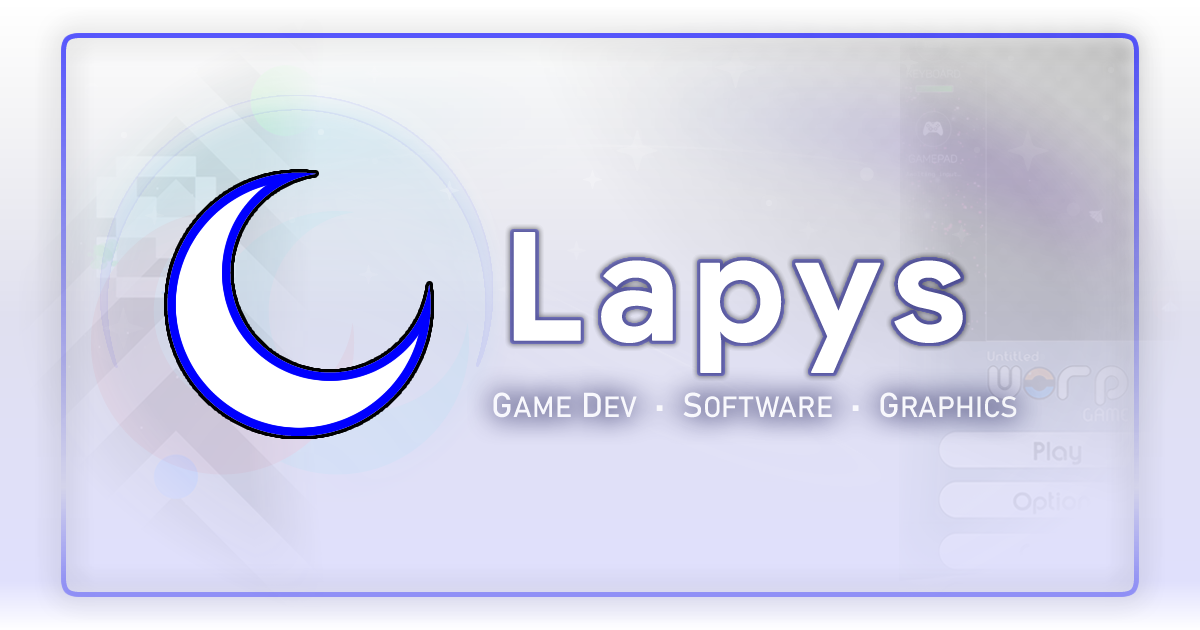
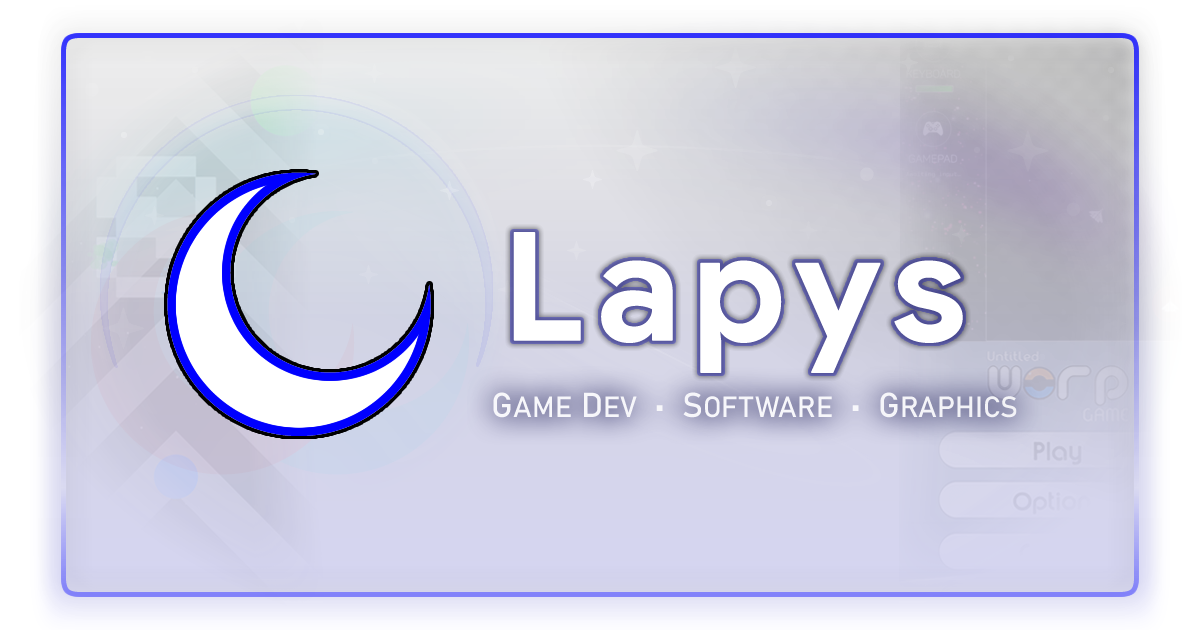
…

diff --git a/index.html b/index.html
@@ -8,23 +8,24 @@
     <meta content="RevealTrans(Duration=0.0,Transition=0)" http-equiv="Page-Exit"/>
     <meta content="chrome=1"                               http-equiv="X-UA-Compatible"/>
 
-    <meta content="United Kingdom"                           property="og:country-name"/>
-    <meta content="Lapys’ portfolio"                         property="og:description"/>
-    <meta content=oluwafunmitoo@gmail.com                    property="og:email"/>
-    <meta content=https://lapys.dev/images/thumbnail.png?v=3 property="og:image"/>
-    <meta content="🌙"                                        property="og:image:alt"/>
-    <meta content=630                                        property="og:image:height"/>
-    <meta content=image/png                                  property="og:image:type"/>
-    <meta content=1200                                       property="og:image:width"/>
-    <meta content=en_GB                                      property="og:locale"/>
-    <meta content="Lapys"                                    property="og:site_name"/>
-    <meta content="Lapys"                                    property="og:title"/>
-    <meta content=website                                    property="og:type"/>
-    <meta content=https://lapys.dev                          property="og:url"/>
-    <meta content=summary_large_image                        name="twitter:card"/>
-    <meta content="Lapys’ portfolio"                         name="twitter:description"/>
-    <meta content=https://lapys.dev/images/thumbnail.png?v=3 name="twitter:image"/>
-    <meta content=Lapys                                      name="twitter:title"/>
+    <meta content="United Kingdom"                                                   property="og:country-name"/>
+    <meta content="Lapys’ portfolio" itemprop=description name="twitter:description" property="og:description"/>
+    <meta content=oluwafunmitoo@gmail.com                                            property="og:email"/>
+    <meta content=https://lapys.dev/images/thumbnail.png?v=5 itemprop=image          property="og:image"/>
+    <meta content="🌙"                                                                property="og:image:alt"/>
+    <meta content=630                                                                property="og:image:height"/>
+    <meta content=https://lapys.dev/images/thumbnail.png?v=5                         property="og:image:secure_url"/>
+    <meta content=image/png                                                          property="og:image:type"/>
+    <meta content=1200                                                               property="og:image:width"/>
+    <meta content=en_GB                                                              property="og:locale"/>
+    <meta content="Lapys"                                                            property="og:site_name"/>
+    <meta content="Lapys"                                                            property="og:title"/>
+    <meta content=website                                                            property="og:type"/>
+    <meta content=https://lapys.dev                                                  property="og:url"/>
+    <meta content=summary_large_image                                                name="twitter:card"/>
+    <meta content=https://lapys.dev/images/thumbnail.png?v=5                         name="twitter:image"/>
+    <meta content=Lapys                                                              name="twitter:title"/>
+    <link href=https://lapys.dev/images/thumbnail.png?v=5 itemprop="image"/>
 
     <meta content="Lapys’ portfolio"                                                                                                                name="abstract"/>
     <meta content=no                                                                                                                                name="apple-mobile-web-app-capable"/>
@@ -50,6 +51,7 @@
     <meta content=#0000CF                                                                                                                           name="msapplication-navbutton-color"/>
     <meta content="Lapys"                                                                                                                           name="msapplication-tooltip"/>
     <meta content=#                                                                                                                                 name="msapplication-starturl"/>
+    <meta content=#0000CF                                                                                                                           name="msapplication-TileColor"/>
     <meta content="height=600;width=800"                                                                                                            name="msapplication-window"/>
     <meta content=no                                                                                                                                name="MSThemeCompatible"/>
     <meta content="LapysDev"                                                                                                                        name="owner"/>
@@ -67,6 +69,7 @@
     <meta content="height=device-height, initial-scale=1.0, maximum-scale=1.0, minimal-ui, minimum-scale=1.0, user-scalable=no, width=device-width" name="viewport"/>
 
     <!-- Document Favorite Icon -->
+    <meta content=favicon.png name="msapplication-TileImage"/>
     <link href=favicon.ico rel=apple-touch-icon sizes="128x128"/>
     <link href=favicon.png rel=apple-touch-icon type="image/png"/>
     <link href=favicon.ico rel="apple-touch-startup-image"/>
@@ -86,6 +89,14 @@
   </head>
 
   <body bgcolor=transparent>
+    <!-- … -->
+    <link href=https://lapys.dev/images/thumbnail.png?v=5 itemprop="thumbnailUrl"/>
+    <span hidden itemprop="image" itemscope itemtype=http://schema.org/ImageObject>
+      <link href=https://lapys.dev/images/thumbnail.png?v=5 itemprop="url"/>
+      <meta content=630                                     itemprop="height"/>
+      <meta content=1200                                    itemprop="width"/>
+    </span>
+
     <!-- Main -->
     <div> Portfolio CV page </div>
 
